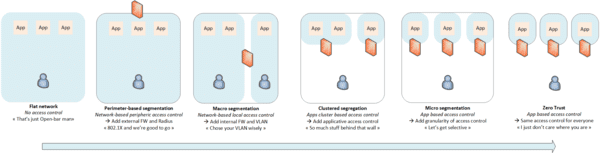
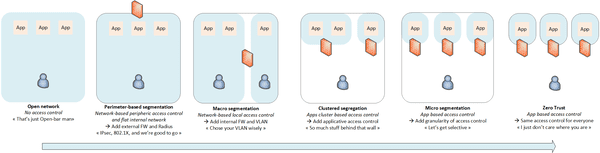
Clarify ZT model

diff --git a/_architecture/zero trust.md b/_architecture/zero trust.md
@@ -13,8 +13,8 @@ gallery1:
 ---
 
 Let's put some segmentation in our network, and review all the steps towards **Zero Trust**:
-- Flat network: *That's just Open-bar man!* :beer:
-- Perimeter-based segmentation: *802.1X and we're good to go.*
+- Open network: *That's just Open-bar man!* :beer:
+- Perimeter-based segmentation: *IPsec, 802.1X, and we're good to go.*
 - Macro-segmentation: *Choose your VLAN wisely.* :detective: 
 - Clustered segregation: *So much stuff behind that wall.*
 - Micro-segmentation: *Let's get selective.*
@@ -23,7 +23,7 @@ Let's put some segmentation in our network, and review all the steps towards **Z
 **Note:** Each step provides cumulative additional protections to enforce.
 {: .notice--warning}
 
-The blue zone represents the trusted area. The black line demarcates the internal network.
+The blue zone represents the trusted area. The black line demarcates the internal network. The Firewall icon represents the authentication and authorization process.
 
 {% include gallery id="gallery1" type="center" %}
 

diff --git a/_architecture/sase.md b/_architecture/sase.md
@@ -16,6 +16,8 @@ gallery1:
 - **Network-as-a-Service (NaaS)** is the provision of network services from a cloud provider. It aims at replacing private VPNs and MPLS connections. It relies a lot on Software Defined Networking technologies.
 - **Network-Security-as-a-Service (NSaaS)** is the provision of network security services from a cloud provider. The security aspect of SASE is also called **Security Service Edge (SSE)**.
 
+This modelling highlights the move from traditional on-premise features, to cloud-native solutions. Just follow the arrows ! :stuck_out_tongue:
+
 {% include gallery id="gallery1" type="center" %}
 
 **Note:** A Wide Area Network (WAN) connects Local Area Networks (LANs) across long distances. In order to speed up connections, many companies use specific **Multi Protocol Label Switching (MPLS)** hardware instead of classic routing.
